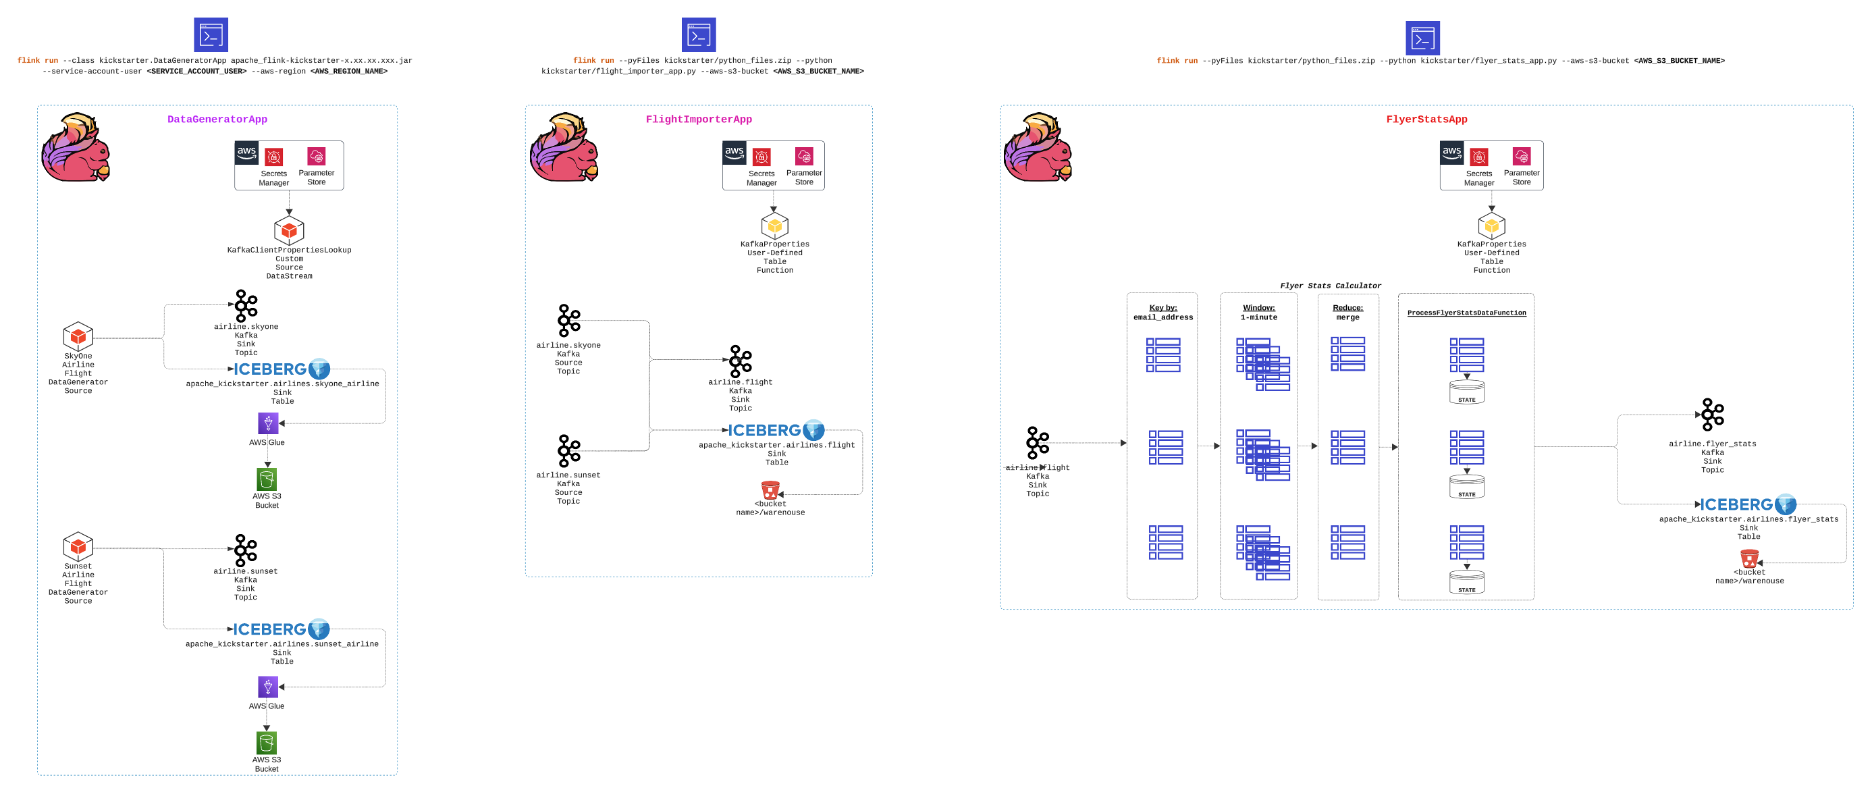
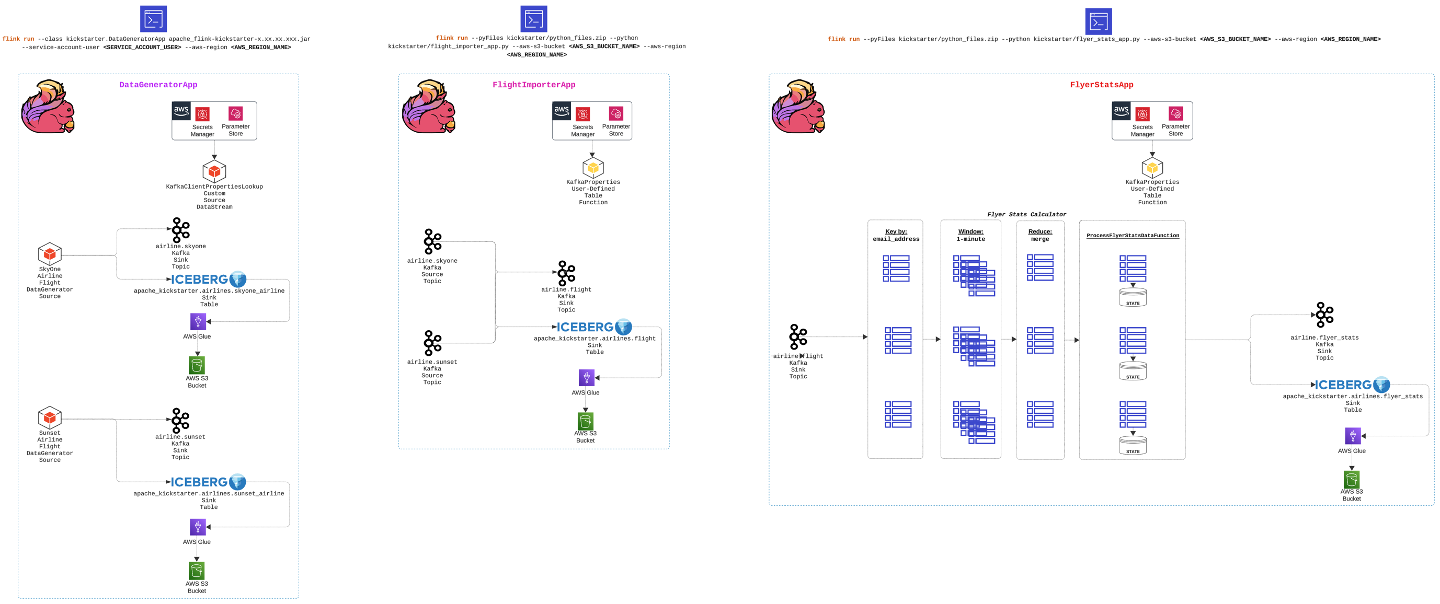
See #368.  Refactored.

diff --git a/python/README.md b/python/README.md
@@ -59,12 +59,13 @@ Finally, to launch one of the Flink applications, choose your app and use the co
 
 Flink App|Flink Run Command
 -|-
-**`FlightImporterApp`**|`flink run --pyFiles kickstarter/python_files.zip --python kickstarter/flight_importer_app.py --aws-s3-bucket <AWS_S3_BUCKET>`
-**`FlyerStatsApp`**|`flink run --pyFiles kickstarter/python_files.zip --python kickstarter/flyer_stats_app.py --aws-s3-bucket <AWS_S3_BUCKET>`
+**`FlightImporterApp`**|`flink run --pyFiles kickstarter/python_files.zip --python kickstarter/flight_importer_app.py --aws-s3-bucket <AWS_S3_BUCKET> --aws-region <AWS_REGION_NAME>`
+**`FlyerStatsApp`**|`flink run --pyFiles kickstarter/python_files.zip --python kickstarter/flyer_stats_app.py --aws-s3-bucket <AWS_S3_BUCKET> --aws-region <AWS_REGION_NAME>`
 
 > Argument placeholder|Replace with
 > -|-
 > `<AWS_S3_BUCKET>`|specify name of the AWS S3 bucket you chosen during the Terraform creation or created yourself separately.  The AWS S3 bucket is used to store the Apache Iceberg files (i.e., data files, manifest files, manifest list file, and metadata files).
+> `<AWS_REGION_NAME>`|specify the AWS Region your AWS Glue infrastructure resides.
 
 ## 4.0 Resources
 
